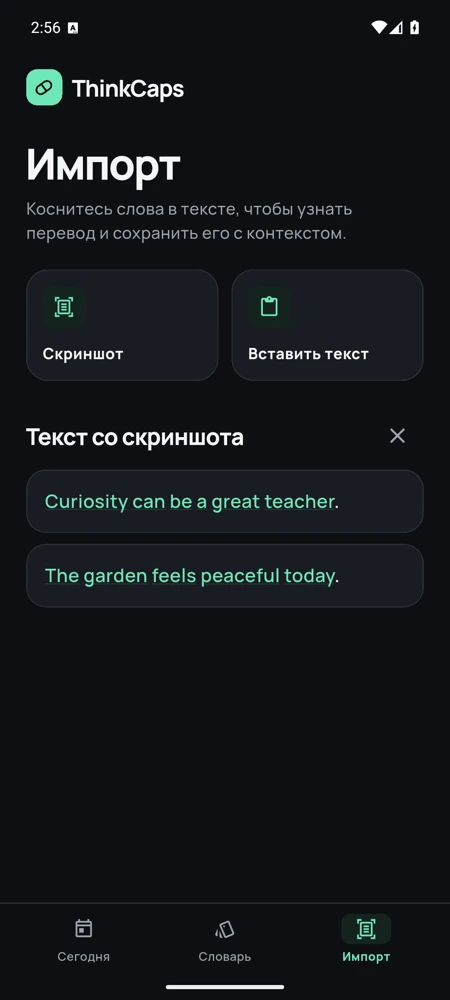
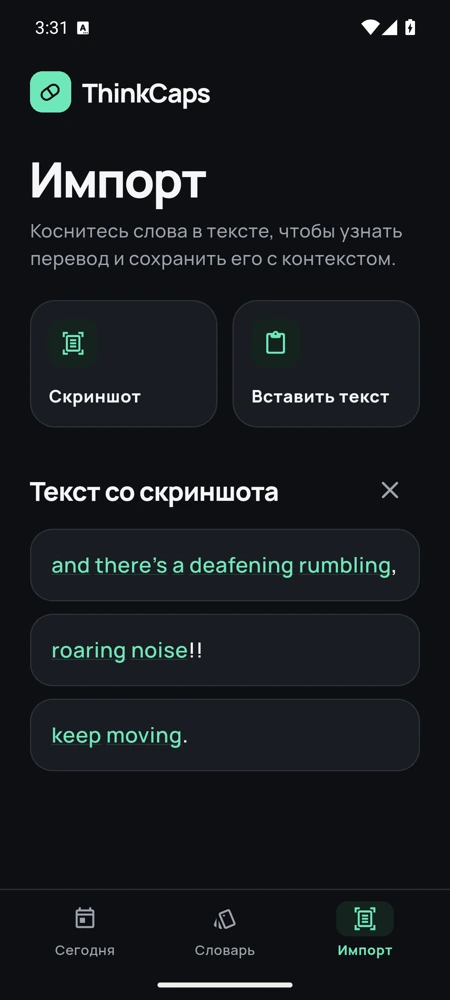
Fit long review words and lowercase OCR text

diff --git a/lib/src/review_screen.dart b/lib/src/review_screen.dart
@@ -8,6 +8,8 @@ import 'package:flutter/services.dart';
 import 'design.dart';
 import 'lexicon.dart';
 
+final _wordSeparator = RegExp(r'\s+');
+
 class ReviewScreen extends StatefulWidget {
   const ReviewScreen({super.key, required this.queue, required this.onGrade});
   final List<ReviewCard> queue;
@@ -324,6 +326,8 @@ class _CardFace extends StatelessWidget {
   Widget build(BuildContext context) {
     final code = back ? card.direction.answerCode : card.direction.promptCode;
     final content = back ? card.answer : card.prompt;
+    final fontSize = content.length > 28 ? 31.0 : 44.0;
+    final termStyle = heading.copyWith(fontSize: fontSize);
     return Panel(
       padding: const EdgeInsets.all(22),
       radius: 27,
@@ -360,11 +364,26 @@ class _CardFace extends StatelessWidget {
                 primary: false,
                 child: Column(
                   children: [
-                    Text(
-                      content,
-                      textAlign: TextAlign.center,
-                      style: heading.copyWith(
-                        fontSize: content.length > 28 ? 31 : 44,
+                    Semantics(
+                      label: content,
+                      excludeSemantics: true,
+                      child: Wrap(
+                        alignment: WrapAlignment.center,
+                        spacing:
+                            MediaQuery.textScalerOf(context).scale(fontSize) *
+                            .2,
+                        children: [
+                          for (final word in content.split(_wordSeparator))
+                            FittedBox(
+                              fit: BoxFit.scaleDown,
+                              child: Text(
+                                word,
+                                softWrap: false,
+                                maxLines: 1,
+                                style: termStyle,
+                              ),
+                            ),
+                        ],
                       ),
                     ),
                     if (back && card.entry.context.isNotEmpty) ...[

diff --git a/test/screenshot_import_test.dart b/test/screenshot_import_test.dart
@@ -1,0 +1,51 @@
+import 'package:flutter/material.dart';
+import 'package:flutter/rendering.dart';
+import 'package:flutter/services.dart';
+import 'package:flutter_test/flutter_test.dart';
+import 'package:thinkcaps/main.dart';
+
+void main() {
+  testWidgets('screenshot text and saved context are lowercase', (
+    tester,
+  ) async {
+    const channel = MethodChannel('app.thinkcaps/bridge');
+    final messenger =
+        TestDefaultBinaryMessengerBinding.instance.defaultBinaryMessenger;
+    Map<Object?, Object?>? saved;
+    messenger.setMockMethodCallHandler(channel, (call) async {
+      return switch (call.method) {
+        'scanScreenshot' => 'THE OLD COMPASS POINTS NORTH.',
+        'translate' => 'компас',
+        'saveEntry' => saved = call.arguments as Map<Object?, Object?>,
+        _ => [],
+      };
+    });
+    addTearDown(() => messenger.setMockMethodCallHandler(channel, null));
+
+    await tester.pumpWidget(const ThinkCapsApp());
+    await tester.pumpAndSettle();
+    await tester.tap(find.text('Импорт').last);
+    await tester.pumpAndSettle();
+    await tester.tap(find.text('Скриншот'));
+    await tester.pumpAndSettle();
+
+    const sentence = 'the old compass points north.';
+    final richText = find.byWidgetPredicate(
+      (widget) => widget is RichText && widget.text.toPlainText() == sentence,
+    );
+    final paragraph = tester.renderObject<RenderParagraph>(richText);
+    final compass = paragraph
+        .getBoxesForSelection(
+          const TextSelection(baseOffset: 8, extentOffset: 15),
+        )
+        .single;
+    await tester.tapAt(paragraph.localToGlobal(compass.toRect().center));
+    await tester.pumpAndSettle();
+    await tester.tap(find.text('Сохранить'));
+    await tester.pumpAndSettle();
+
+    expect(saved?['english'], 'compass');
+    expect(saved?['context'], sentence);
+    await tester.pumpWidget(const SizedBox());
+  });
+}

diff --git a/test/review_test.dart b/test/review_test.dart
@@ -55,4 +55,52 @@ void main() {
     expect(find.text('Повторение завершено'), findsOneWidget);
     expect(tester.takeException(), isNull);
   });
+
+  testWidgets('long words fit without splitting at a narrow screen width', (
+    tester,
+  ) async {
+    tester.view.devicePixelRatio = 1;
+    tester.view.physicalSize = const Size(360, 800);
+    addTearDown(tester.view.resetPhysicalSize);
+    addTearDown(tester.view.resetDevicePixelRatio);
+    const longEnglish = 'uncompromisingly-long-description';
+    const longRussian = 'Оглушительными';
+    final fresh = ReviewState(due: DateTime.utc(2026, 11, 18));
+    final entry = Entry(
+      id: 1,
+      english: 'an $longEnglish',
+      russian: longRussian,
+      context: '',
+      automatic: true,
+      forward: fresh,
+      reverse: fresh,
+    );
+    await tester.pumpWidget(
+      MaterialApp(
+        theme: appTheme(),
+        home: ReviewScreen(
+          queue: [ReviewCard(entry, Direction.enToRu)],
+          onGrade: (_, _) async {},
+        ),
+      ),
+    );
+
+    Rect expectFittedWord(String word) {
+      final finder = find.text(word);
+      final widget = tester.widget<Text>(finder);
+      expect(widget.maxLines, 1);
+      expect(widget.softWrap, isFalse);
+      final bounds = tester.getRect(finder);
+      expect(bounds.left, greaterThanOrEqualTo(45.9));
+      expect(bounds.right, lessThanOrEqualTo(314.1));
+      return bounds;
+    }
+
+    final englishBounds = expectFittedWord(longEnglish);
+    expect(englishBounds.top, greaterThan(tester.getRect(find.text('an')).top));
+    await tester.tap(find.text('Показать перевод'));
+    await tester.pumpAndSettle();
+    expectFittedWord(longRussian);
+    expect(tester.takeException(), isNull);
+  });
 }

diff --git a/lib/main.dart b/lib/main.dart
@@ -193,7 +193,7 @@ class _HomeState extends State<_Home> with WidgetsBindingObserver {
     try {
       final result = await _platform.scanScreenshot();
       if (mounted && result != null && revision == _importRevision) {
-        _setImport(result, 'Текст со скриншота');
+        _setImport(result.toLowerCase(), 'Текст со скриншота');
       }
     } on PlatformException {
       if (mounted) {
